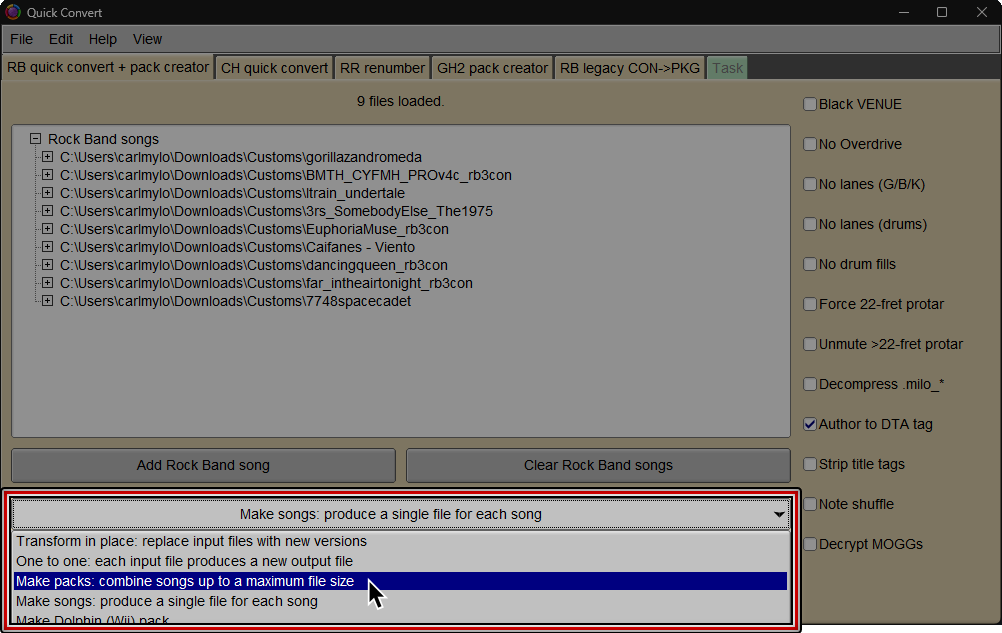
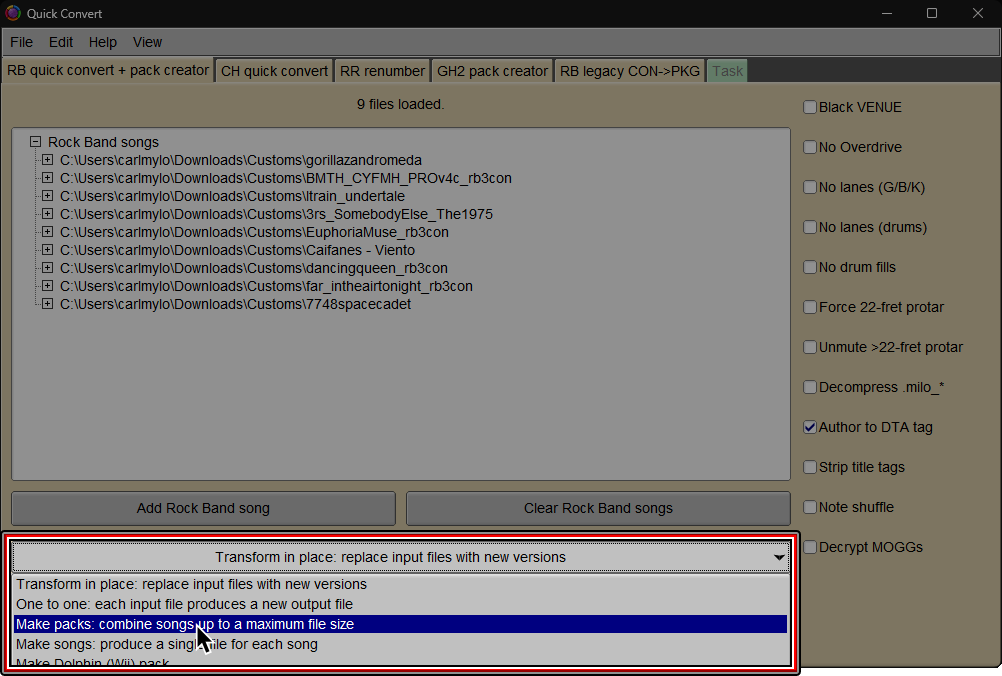
Customs Songs merging tutorial
A tutorial on how to merge loose song folders!
Might need a second grammar pass since I wrote this with barely any sleep.
Has Spanish translation too!

diff --git a/pages/espanol/customs/combinando.md b/pages/espanol/customs/combinando.md
@@ -1,0 +1,107 @@
+---
+title: "Combinando Carpetas de Customs"
+sidebar: customses_sidebar
+permalink: customs_merging_es
+folder: espanol
+tags: [customs-es, espanol]
+summary: "Como combinar carpetas de canciones para iniciar el juego mas rápido."
+series: "Convirtiendo Customs"
+weight: 4
+---
+
+Con el paso del tiempo, puede que tengas un montón de carpetas de customs. Esto es un problema, ya que Rock Band 3 carga por carpeta y mientras más carpetas tengas, más tardará en cargar el juego.  
+![Una captura de Rock Band 3 cargando descargas de contenido. Esta cargando 94 descargas.](https://rb3pc.milohax.org/images/xtra/customs/rb3mergees.png "RPCS3")  
+
+
+Idealmente, deberías empaquetar la mayor cantidad de canciones posibles en un solo pack para que Rock Band 3 cargue más rápido.  
+![Una captura de Rock Band 3 cargando descargas de contenido. Esta cargando 48 descargas.](https://rb3pc.milohax.org/images/xtra/customs/rb3mergeafteres.png "RPCS3")  
+
+
+Gracias a la herramienta Onyx, esto es fácil. El proceso es casi igual a [[la guía de convertir archivos de Xbox 360 a RPCS3/PS3]](https://rb3pc.milohax.org/customs_360toPS3_es).  
+Antes de empezar, toma en cuenta que necesitas tener espacio libre no solo para las carpetas originales, si no la carpeta combinada.  
+¡Asegúrate que tengas suficiente espacio!
+
+#### 1.
+Abre un explorador de archivos y entra a la carpeta donde están instaladas tus customs.  
+Usualmente, esto es `dev_hdd0\game\BLUS30463\USRDIR\`.  
+Si estas en PS3, vas a tener que transferir las carpetas que quieres combinar. Esto puede tomar un rato.  
+Si estas en RPCS3, puedes llegar ahí rápidamente haciendo un click derecho en Rock Band 3 y después en `Open Folder > Open Disc Game Folder`.  
+![Una captura de RPCS3, con el cursor sobre Open Game Folder, dentro del menú despegable de Open Folder.](https://rb3pc.milohax.org/images/trbl/teleprob/patchgames.png "RPCS3")
+
+#### 2.
+Ahora, abre Onyx y haz click en `Quick convert/pack`.  
+![Una captura de la pantalla principal de Onyx. El cursor esta sobre "Quick convert/pack."](https://rb3pc.milohax.org/images/xtra/customs/onyxhomequick.png "Onyx Console")
+
+#### 3.
+Quédate en la pestaña de `RB quick convert + pack creator`.  
+Ahora, arrastra los archivos que acabas de procesar. También puedes usar `Add Rock Band Song` para elegirlas.  
+![Una animación de carpetas de customs siendo arrastradas a la pestaña de "RB quick convert + pack creator" dentro de Onyx.](https://rb3pc.milohax.org/images/xtra/customs/onyxdraganddropmerge.gif "Quick Convert")
+
+Es recomendado que actives la opción de `Author to DTA tag` abajo a la derecha.  
+![Una captura de la pantalla de Quick Convert dentro de Onyx. El cursor esta sobre "Author to DTA" y esta resaltado.](https://rb3pc.milohax.org/images/xtra/customs/onyxauthormerge.png "Quick Convert")
+
+#### 4.
+Abajo de la primera línea de botones grises, haz click en el primer menú y luego en `Make Packs`.  
+`Make Songs` no sirve en este contexto porque solo va a crear mas carpetas sueltas.  
+![Una captura de la pantalla de Quick Convert dentro de Onyx. El cursor presiono "Make songs: produced a single file for each song" y despues elije "Make packs: combine songs up to a maximum file size."](https://rb3pc.milohax.org/images/xtra/customs/onyxmakepacksmergees.png "Quick Convert")
+
+#### 5.
+Abajo a la izquierda, asegúrate que `Encrypt .mid.edat` este activado, y elije entre `PKG (PS3)` o `Folders (PS3)`. 
+* `Folders (PS3)` compila las canciones a un carpeta sin crear un archivo PKG. Esta opción es recomendada si usas RPCS3 o un PS3 con FTP. Es **mucho mas** rápido que hacer PKGs. Si estas en RPCS3, también puedes crear carpetas mas grandes que 4 GBs.
+* `PKG (PS3)` compila un archivo PKG. Esto solo es recomendado si tienes un PS3 con cual tienes que usar una memoria USB para agregar canciones.
+
+<ul id="profileTabs" class="nav nav-tabs">
+    <li class="active"><a href="#folders" data-toggle="tab">Folders (PS3)</a></li>
+    <li><a href="#pkg" data-toggle="tab">PKG (PS3)</a></li>
+</ul>
+  <div class="tab-content">
+<div role="tabpanel" class="tab-pane active" id="folders">
+<img src="https://rb3pc.milohax.org/images/xtra/customs/onyxoutfoldermergees.png" alt="Una captura de la pantalla de Quick Convert dentro de Onyx. El cursor esta sobre &quot;Folders (PS3)&quot; y &quot;Encrypted .mid.edat&quot; esta activado." title="Quick Convert">
+<h4>6.</h4>
+<p><em>(Opcional pero recomendado)</em><br>
+Con estos métodos, el PKG va crear una carpeta con un nombre generado automáticamente. Si es una canción o un paquete, va a salir como <code>OxxxxxSongName</code>. En caso de que crees un paquete, se usara el nombre de la primera canción.<br>
+Recomendamos, en caso de hacer paquetes, cambiar la opción de <code>Combine into one new USRDIR subfolder per pack</code> por la de <code>Custom USRDIR subfolder</code> y ponerle el nombre que tu quieras.<br>
+<img src="https://rb3pc.milohax.org/images/xtra/customs/onyxfoldernamerpcs3mergees.png" alt="Una captura de la pantalla de Quick Convert dentro de Onyx. El cursor esta sobre &quot;Custom USRDIR subfolder&quot; en vez de &quot;Keep original USRDIR subfolders&quot;." title="Quick Convert"></p>
+<img src="https://rb3pc.milohax.org/images/xtra/customs/onyxnamepackes.png" alt="Una captura de Onyx con su pantalla de nombrar el paquete. El paquete fue nombrado &quot;paquete_de_customs.&quot;" title="Quick Convert"></p>
+<h4>7.</h4>
+<p><em>(Opcional pero recomendado para usuarios de RPCS3)</em><br>
+RPCS3 puede tener carpetas mas grandes que el tamaño que viene por defecto en Onyx (4000 MiB o 4.1 GBs). Esto es porque mayoría de computadoras usan sistemas de archivos (como NTFS, ext4 y APFS) que pueden superar el limite de FAT32.<br>
+Simplemente, entra un numero alto como <code>99999</code> en la parte abajo a la izquierda.<br>
+<strong>No hagas esto en PS3 porque su sistema de archivos es FAT32 y tiene un limite de 4.1 GBs por carpeta. ¡Si cambias esto, puede romper todo!</strong><br>
+<img src="https://rb3pc.milohax.org/images/xtra/customs/onyxmakepackfilesizees.png" alt="Una captura de la pantalla de Quick Convert dentro de Onyx. &quot;Max Pack Size (MiB)&quot; esta puesto en &quot;99999&quot;." title="Quick Convert"></p>
+<h4>8.</h4>
+<p>Abajo va ver un un botón verde que dice <code>Make pack</code> o <code>Start</code> si elegiste la opción de <code>Make Songs</code><br>
+<img src="https://rb3pc.milohax.org/images/xtra/customs/onyxmakepackrpcs3mergees.png" alt="Una captura de la pantalla de Quick Convert dentro de Onyx. El cursor esta sobre &quot;Make 1 pack.&quot;" title="Quick Convert"></p>
+<p>Ve a donde tienes tu carpeta de <code>dev_hdd0</code>. Usualmente está en la carpeta de RPCS3.<br>
+Si vas a instalar el paquete a un PS3 por FTP, elije cualquier carpeta que te conviene mas.<br>
+<img src="https://rb3pc.milohax.org/images/xtra/customs/savefolderes.png" alt="Una captura de un explorador de archivos. La carpeta de &quot;dev_hdd0&quot; esta elegida y el cursor esta sobre &quot;Select folder.&quot;" title="Select Folder"></p>
+<p>Cuando termines, tendrás las canciones en la carpeta, listas para jugar, si estas en emulador.<br>
+Si estas en PS3, tendrás que copiar la carpeta por FTP a <code>dev_hdd0/game/BLUS30463/USRDIR</code>.
+Hasta puedes actualizar tu colección musical mientras estés dentro del juego con RB3DX. Dentro de Rock Band 3, ve a:<br>
+<code>Opciones &gt; Extras &gt; Actualizar Colección Musical</code> para cargar las canciones nuevas.<br>
+<img src="https://rb3pc.milohax.org/images/xtra/customs/onyxcreatedrpcs3mergees.png" alt="Una captura de Onyx con su pantalla de nombrar el paquete. The pack has been named &quot;my_custom_pack.&quot;" title="Quick Convert"></p>
+
+</div>
+<div role="tabpanel" class="tab-pane" id="pkg">
+<img src="https://rb3pc.milohax.org/images/xtra/customs/onyxoutpkgmergees.png" alt="Una captura de la pantalla de Quick Convert dentro de Onyx. The cursor is selecting &quot;PS3 (PS3)&quot; and &quot;Encrypted .mid.edat&quot; has been enabled." title="Quick Convert">
+<h4>12.</h4>
+<p><em>(Opcional pero recomendado)</em><br>
+Con estos métodos, el PKG va crear una carpeta con un nombre generado automáticamente. Por defecto, va a salir como <code>OxxxxxSongName</code>, con <code>SongName</code> siendo el nombre de la primera canción.<br>
+Recomendamos cambiar la opción de <code>Combine into one new USRDIR subfolder per pack</code> por la de <code>Custom USRDIR subfolder</code> y ponerle el nombre que tu quieras.<br>
+<img src="https://rb3pc.milohax.org/images/xtra/customs/onyxfoldernamepkgmergees.png" alt="Una captura de la pantalla de Quick Convert dentro de Onyx. El cursor esta sobre &quot;Custom USRDIR subfolder&quot; en vez de &quot;Keep original USRDIR subfolders&quot;." title="Quick Convert"></p>
+<img src="https://rb3pc.milohax.org/images/xtra/customs/onyxnamepackes.png" alt="Una captura de Onyx con su pantalla de nombrar el paquete. The pack has been named &quot;my_custom_pack.&quot;" title="Quick Convert"></p>
+<h4>13.</h4>
+<p>Abajo va ver un un botón verde que dice <code>Make pack</code>.<br>
+<img src="https://rb3pc.milohax.org/images/xtra/customs/onyxmakepackpkgmergees.png" alt="Una captura de la pantalla de Quick Convert dentro de Onyx. El cursor esta sobre &quot;Make 1 pack.&quot;" title="Quick Convert"></p>
+<p>Elige una carpeta para poner el archivo PKG file y dale un nombre.<br>
+<img src="https://rb3pc.milohax.org/images/xtra/customs/savepkges.png" alt="Una captura de un explorador de archivos. The file name has been set to &quot;my_custom_pack&quot;" title="Select Folder"></p>
+<p>Se creara un archivo PKG cuando termine.<br>
+Puedes instalar este archivo como cualquier otro PKG.<br>
+<img src="https://rb3pc.milohax.org/images/xtra/customs/onyxcreatedpkgmergees.png" alt="Una captura de Onyx con su pantalla de nombrar el paquete. The pack has been named &quot;my_custom_pack.&quot;" title="Quick Convert"></p>
+
+</div>
+</div>
+
+{% include custom/series_customs_next.html %}
+
+{% include links.html %}

diff --git a/pages/english/customs/merging.md b/pages/english/customs/merging.md
@@ -1,0 +1,105 @@
+---
+title: "Merging Song Folders"
+sidebar: customs_sidebar
+permalink: customs_merging
+folder: english
+tags: [customs, english]
+summary: "How to merge multiple song folders to reduce startup time."
+series: "Converting Customs"
+weight: 4
+---
+
+Over time, you might amass a large amount of customs folders. This is a problem since, the more folders you have, the longer Rock Band 3 takes to count your songs.  
+![A screenshot of Rock Band 3 loading downloaded content. It is loading 94 packages.](https://rb3pc.milohax.org/images/xtra/customs/rb3merge.png "RPCS3")  
+
+
+Ideally, you should put as many songs as possible into a pack to load things efficiently.  
+![A screenshot of Rock Band 3 loading downloaded content. It is loading 48 packages.](https://rb3pc.milohax.org/images/xtra/customs/rb3mergeafter.png "RPCS3")  
+
+Thanks to Onyx, you can do this easily! It is basically the same as the earlier as [[the Xbox 360 CON to PS3/RPCS3 format tutorial]](https://rb3pc.milohax.org/customs_360toPS3).  
+Before starting, keep in mind that you will temporarily need to have the original separated packs and the merged pack installed.  
+Make sure you have enough space!
+
+#### 1.
+Open a file browser and navigate to where your customs are installed.  
+This is normally within `dev_hdd0\game\BLUS30463\USRDIR\`.  
+For PS3, you will have to transfer the folder you want to combine to your computer for processing, which may take a while.  
+If you're on RPCS3, you can get there quickly by right clicking Rock Band 3 within RPCS3 then `Open Folder > Open Disc Game Folder`.  
+![A RPCS3 with Open Disc Game Folder, within the Open Folder menu, highlighted and with a cursor over it.](https://rb3pc.milohax.org/images/trbl/teleprob/patchgames.png "RPCS3")
+
+#### 2.
+Now, open Onyx Music Game Toolkit and click `Quick convert/pack`.  
+![A screenshot of Onyx's main screen. A cursor hovers over "Quick convert/pack."](https://rb3pc.milohax.org/images/xtra/customs/onyxhomequick.png "Onyx Console")
+
+#### 3.
+Stay on the `RB quick convert + pack creator` tab.  
+You can either drag and drop the files you modified or click on `Add Rock Band Song` to select them.  
+![A GIF of folders of customs being dragged and dropped into the "RB quick convert + pack creator" tab of Onyx.](https://rb3pc.milohax.org/images/xtra/customs/onyxdraganddropmerge.gif "Quick Convert")
+
+It is also recommended to enable `Author to DTA tag` at the bottom right.  
+![A screenshot of Onyx's Quick Convert screen. "Author to DTA" is highlighted and has a cursor over it.](https://rb3pc.milohax.org/images/xtra/customs/onyxauthormerge.png "Quick Convert")
+
+#### 4.
+Below the first row of gray buttons, click the first menu and select `Make Packs`.  
+`Make Songs` is useless in this context since it will create loose folders.  
+![A screenshot of Onyx's Quick Convert screen. "Make songs: produced a single file for each song" has been clicked and the cursor is over "Make packs: combine songs up to a maximum file size."](https://rb3pc.milohax.org/images/xtra/customs/onyxmakepacksmerge.png "Quick Convert")
+
+#### 5.
+At the bottom left, make sure `Encrypt .mid.edat` is enabled, then select between either `PKG (PS3)` or `Folders (PS3)`.  
+* `Folders (PS3)` is recommended for RPCS3 users and PS3 users who know how to use FTP. It is **much** faster than PKG creation. RPCS3 users can also bypass the 4GB folder limit.
+* `PKG (PS3)` is only recommended for PS3 users who can only use USB flash drives to add more songs.
+
+<ul id="profileTabs" class="nav nav-tabs">
+    <li class="active"><a href="#folders" data-toggle="tab">Folders (PS3)</a></li>
+    <li><a href="#pkg" data-toggle="tab">PKG (PS3)</a></li>
+</ul>
+  <div class="tab-content">
+<div role="tabpanel" class="tab-pane active" id="folders">
+<img src="https://rb3pc.milohax.org/images/xtra/customs/onyxoutfoldermerge.png" alt="A screenshot of Onyx's Quick Convert screen. The cursor is selecting &quot;Folders (PS3)&quot; and &quot;Encrypted .mid.edat&quot; has been enabled." title="Quick Convert">
+<h4>6.</h4>
+<p><em>(Optional but highly recommended)</em><br>
+With these methods, the USRDIR subfolder will have an auto-generated name. For single songs and packs, it'll be <code>OxxxxxSongName</code>. However, if you make a pack, the folder name will only include the first song in the pack.<br>
+If you want to find the folder easily, it's recommended to select <code>Custom USRDIR subfolder</code> instead of <code>Combine into one new USRDIR subfolder per pack</code> and entering the name of your choice.<br>
+<img src="https://rb3pc.milohax.org/images/xtra/customs/onyxfoldernamerpcs3merge.png" alt="A screenshot of Onyx's Quick Convert screen. The cursor is selecting &quot;Custom USRDIR subfolder&quot; where &quot;Keep original USRDIR subfolders&quot; once was." title="Quick Convert"></p>
+<img src="https://rb3pc.milohax.org/images/xtra/customs/onyxnamepack.png" alt="A screenshot of Onyx's USRDIR naming popup. The pack has been named &quot;my_custom_pack.&quot;" title="Quick Convert"></p>
+<h4>7.</h4>
+<p><em>(Optional but highly recommended for RPCS3 users)</em><br>
+RPCS3 can smash through the default maximum pack size of 4000 MiB (4.1 GB) since most computers will be running file systems that allow this (NTFS, ext4, APFS.)<br>
+Simply change the number at the bottom left to something absurdly high like <code>99999</code><br>
+<strong>Please do not do this on PS3 as its file system (FAT32) is limited to 4.1 GBs per folder and changing this can cause severe issues!</strong><br>
+<img src="https://rb3pc.milohax.org/images/xtra/customs/onyxmakepackfilesize.png" alt="A screenshot of Onyx's Quick Convert screen. &quot;Max Pack Size (MiB)&quot; has been set to &quot;99999&quot;." title="Quick Convert"></p>
+<h4>8.</h4>
+<p>At the bottom, select the big button labeled <code>Make pack</code> (or <code>Start</code> if you used the <code>Make Songs</code> option.)<br>
+<img src="https://rb3pc.milohax.org/images/xtra/customs/onyxmakepackrpcs3merge.png" alt="A screenshot of Onyx's Quick Convert screen. The cursor is over &quot;Make 1 pack.&quot;" title="Quick Convert"></p>
+<p>Navigate to your RPCS3 folder and select the <code>dev_hdd0</code> folder.<br>
+If you\re going to be installing to a PS3 via FTP, select the most convenient folder.<br>
+<img src="https://rb3pc.milohax.org/images/xtra/customs/savefolder.png" alt="A screenshot of a file browser window. &quot;dev_hdd0&quot; is selected and the cursor is over &quot;Select folder.&quot;" title="Select Folder"></p>
+<p>It should successfully convert and auto-install into your RPCS3 directory, ready to play.<br>
+If using RB3DX, you can even do this while the game is running. Within RB3, select:<br>
+<code>Options &gt; Extras &gt; Refresh Library</code> to reload your song list.<br>
+<img src="https://rb3pc.milohax.org/images/xtra/customs/onyxcreatedrpcs3merge.png" alt="A screenshot of Onyx's USRDIR naming popup. The pack has been named &quot;my_custom_pack.&quot;" title="Quick Convert"></p>
+
+</div>
+<div role="tabpanel" class="tab-pane" id="pkg">
+<img src="https://rb3pc.milohax.org/images/xtra/customs/onyxoutpkgmerge.png" alt="A screenshot of Onyx's Quick Convert screen. The cursor is selecting &quot;PS3 (PS3)&quot; and &quot;Encrypted .mid.edat&quot; has been enabled." title="Quick Convert">
+<h4>6.</h4>
+<p><em>(Optional but highly recommended)</em><br>
+With these methods, the USRDIR subfolder will have an auto-generated name. It'll be <code>OxxxxxSongName</code>, with the <code>SongName</code> being the first song in the pack.<br>
+If you want to find the folder easily, it's recommended to select <code>Custom USRDIR subfolder</code> instead of <code>Combine into one new USRDIR subfolder per pack</code> and entering the name of your choice.<br>
+<img src="https://rb3pc.milohax.org/images/xtra/customs/onyxfoldernamepkgmerge.png" alt="A screenshot of Onyx's Quick Convert screen. The cursor is selecting &quot;Custom USRDIR subfolder&quot; where &quot;Keep original USRDIR subfolders&quot; once was." title="Quick Convert"></p>
+<img src="https://rb3pc.milohax.org/images/xtra/customs/onyxnamepack.png" alt="A screenshot of Onyx's USRDIR naming popup. The pack has been named &quot;my_custom_pack.&quot;" title="Quick Convert"></p>
+<h4>7.</h4>
+<p>At the bottom, select the big button labeled <code>Make pack</code>.<br>
+<img src="https://rb3pc.milohax.org/images/xtra/customs/onyxmakepackpkgmerge.png" alt="A screenshot of Onyx's Quick Convert screen. The cursor is over &quot;Make 1 pack.&quot;" title="Quick Convert"></p>
+<p>Select where you would like to save the PKG file and give it a name.<br>
+<img src="https://rb3pc.milohax.org/images/xtra/customs/savepkg.png" alt="A screenshot of a file browser window. The file name has been set to &quot;my_custom_pack&quot;" title="Select Folder"></p>
+<p>It should successfully convert and a PKG file will be created, ready to install.<br>
+Simply install it like any other PKG.<br>
+<img src="https://rb3pc.milohax.org/images/xtra/customs/onyxcreatedpkgmerge.png" alt="A screenshot of Onyx's USRDIR naming popup. The pack has been named &quot;my_custom_pack.&quot;" title="Quick Convert"></p>
+
+</div>
+</div>
+
+{% include custom/series_customs_next.html %}
+
+{% include links.html %}

diff --git a/pages/espanol/customs/360aPS3.md b/pages/espanol/customs/360aPS3.md
@@ -58,7 +58,7 @@ Es recomendado que actives la opción de `Author to DTA tag` abajo a la derecha.
 
 
 #### 10.
-Abajo de la primera línea de botones grises, haz click en el menú que dice `Make Packs` o `Make Songs` depende de cómo quieres crear tus PKGs. Es recomendado crear paquetes.  
+Abajo de la primera línea de botones grises, haz click en el primer menú y luego en `Make Packs` o `Make Songs` depende de cómo quieres crear tus PKGs. Es recomendado crear paquetes.  
 ![Una captura de la pantalla de Quick Convert dentro de Onyx. El cursor presiono "Make songs: produced a single file for each song" y despues elije "Make packs: combine songs up to a maximum file size."](https://rb3pc.milohax.org/images/xtra/customs/onyxmakepacks.png "Quick Convert")
 
 #### 11.
@@ -79,7 +79,7 @@ Con estos métodos, el PKG va crear una carpeta con un nombre generado automáti
 Recomendamos, en caso de hacer paquetes, cambiar la opción de <code>Combine into one new USRDIR subfolder per pack</code> por la de <code>Custom USRDIR subfolder</code> y ponerle el nombre que tu quieras.<br>
 <img src="https://rb3pc.milohax.org/images/xtra/customs/onyxfoldernamerpcs3es.png" alt="Una captura de la pantalla de Quick Convert dentro de Onyx. El cursor esta sobre &quot;Custom USRDIR subfolder&quot; en vez de &quot;Keep original USRDIR subfolders&quot;." title="Quick Convert"></p>
 <p>Puedes hacer esto si solo es una canción también. Esto ayuda demasiado si quieres ser organizado y encontrar una canción entre las carpetas.<br>
-<img src="https://rb3pc.milohax.org/images/xtra/customs/onyxnamepackes.png" alt="Una captura de Onyx con su pantalla de nombrar el paquete. The pack has been named &quot;my_custom_pack.&quot;" title="Quick Convert"></p>
+<img src="https://rb3pc.milohax.org/images/xtra/customs/onyxnamepackes.png" alt="Una captura de Onyx con su pantalla de nombrar el paquete. El paquete fue nombrado &quot;paquete_de_customs.&quot;" title="Quick Convert"></p>
 <h4>13.</h4>
 <p>Abajo va ver un un botón verde que dice <code>Make pack</code> o <code>Start</code> si elegiste la opción de <code>Make Songs</code><br>
 <img src="https://rb3pc.milohax.org/images/xtra/customs/onyxmakepackrpcs3es.png" alt="Una captura de la pantalla de Quick Convert dentro de Onyx. El cursor esta sobre &quot;Make 1 pack.&quot;" title="Quick Convert"></p>

diff --git a/pages/espanol/customs/problemas.md b/pages/espanol/customs/problemas.md
@@ -6,7 +6,7 @@ folder: espanol
 tags: [customs-es, espanol]
 summary: "Como resolver problemas comúnes con customs."
 series: "Convirtiendo Customs"
-weight: 4
+weight: 5
 ---
 
 ## Canciones no salen en línea / Puntajes no se guardan

diff --git a/pages/english/customs/troubleshooting.md b/pages/english/customs/troubleshooting.md
@@ -6,7 +6,7 @@ folder: english
 tags: [customs, english]
 summary: "How to solve common issues with Rock Band 3 customs."
 series: "Converting Customs"
-weight: 4
+weight: 5
 ---
 
 ## Customs not working online / Scores not saving
